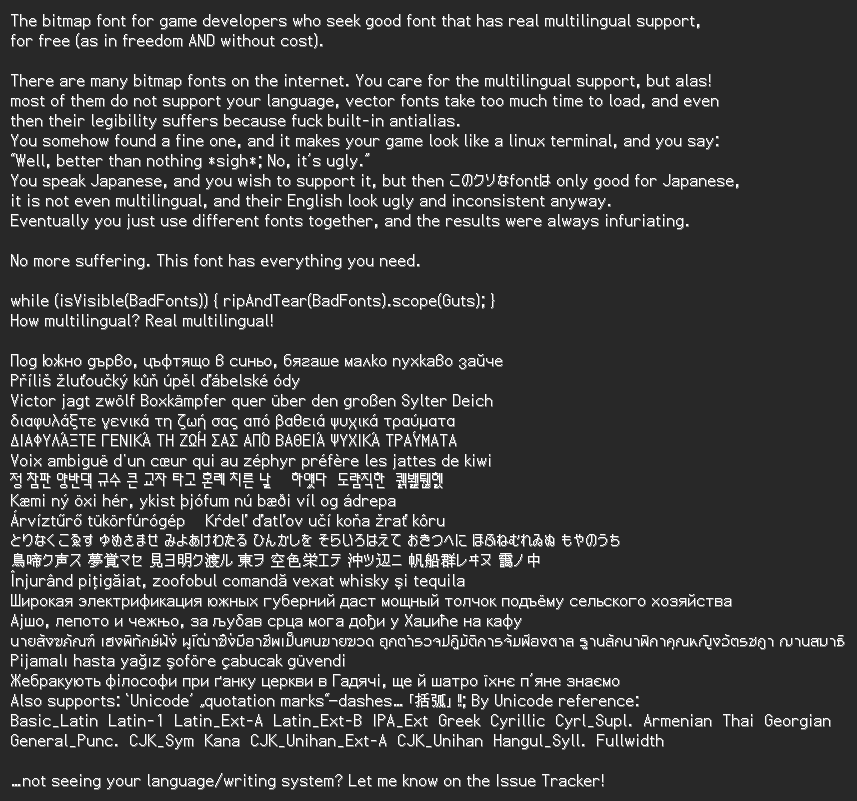
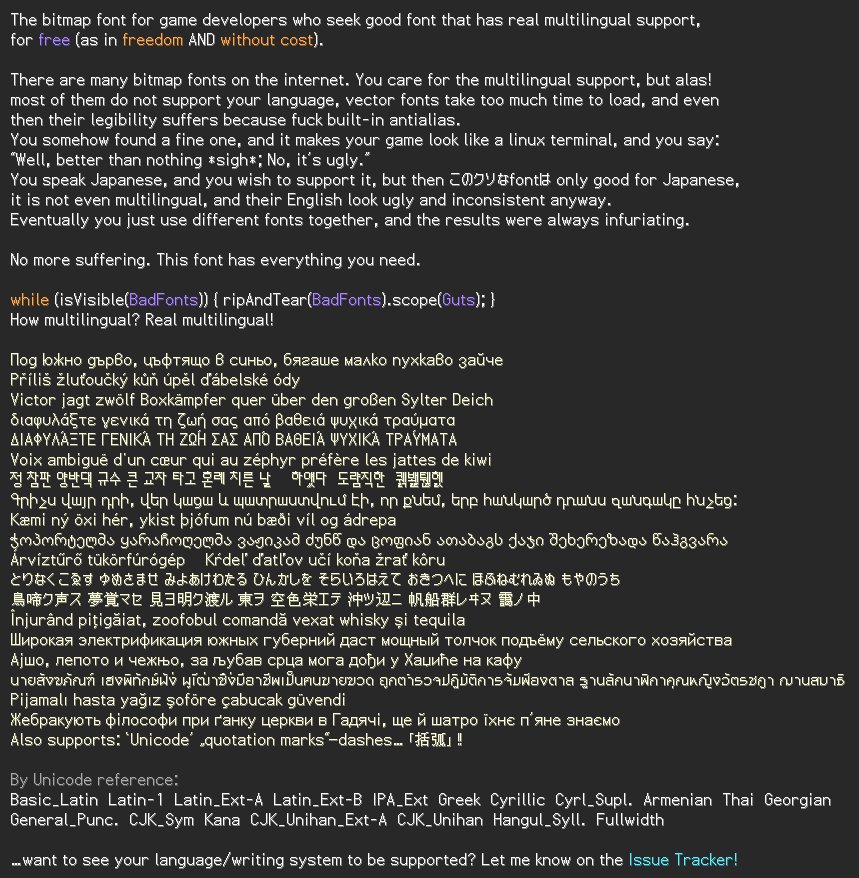
color code utils; colour-coded sample text

Changed region(s): [[0.0, 0.0, 1.0, 0.9988]]

diff --git a/src/net/torvald/terrarumsansbitmap/gdx/GameFontBase.kt b/src/net/torvald/terrarumsansbitmap/gdx/GameFontBase.kt
@@ -748,6 +748,10 @@ class GameFontBase(fontDir: String, val noShadow: Boolean = false, val flipY: Bo
             else throw IllegalArgumentException("Font scale cannot be zero or negative (input: $value)")
         }
 
+    fun toColorCode(rgba4444: Int): String = GameFontBase.toColorCode(rgba4444)
+    fun toColorCode(r: Int, g: Int, b: Int, a: Int = 0x0F): String = toColorCode(r.shl(12) or g.shl(8) or b.shl(4) or a)
+    val noColorCode = toColorCode(0x0000)
+
     companion object {
         internal val JUNG_COUNT = 21
         internal val JONG_COUNT = 28
@@ -785,6 +789,13 @@ class GameFontBase(fontDir: String, val noShadow: Boolean = false, val flipY: Bo
         internal val SHEET_CUSTOM_SYM =     16
 
         internal val SHEET_UNKNOWN = 254
+
+
+        fun toColorCode(rgba4444: Int): String = Character.toChars(0x100000 + rgba4444).toColCode()
+        fun toColorCode(r: Int, g: Int, b: Int, a: Int = 0x0F): String = toColorCode(r.shl(12) or g.shl(8) or b.shl(4) or a)
+        private fun CharArray.toColCode(): String = "${this[0]}${this[1]}"
+
+        val noColorCode = toColorCode(0x0000)
     }
 
 }

diff --git a/src/net/torvald/terrarumsansbitmap/slick2d/GameFontBase.kt b/src/net/torvald/terrarumsansbitmap/slick2d/GameFontBase.kt
@@ -753,5 +753,15 @@ class GameFontBase(fontDir: String, val noShadow: Boolean = false) : Font {
             else throw IllegalArgumentException("Font scale cannot be zero or negative (input: $value)")
         }
 
+    fun toColorCode(rgba4444: Int): String = GameFontBase.toColorCode(rgba4444)
+    fun toColorCode(r: Int, g: Int, b: Int, a: Int = 0x0F): String = toColorCode(r.shl(12) or g.shl(8) or b.shl(4) or a)
+    val noColorCode = toColorCode(0x0000)
 
+    companion object {
+        fun toColorCode(rgba4444: Int): String = Character.toChars(0x100000 + rgba4444).toColCode()
+        fun toColorCode(r: Int, g: Int, b: Int, a: Int = 0x0F): String = toColorCode(r.shl(12) or g.shl(8) or b.shl(4) or a)
+        private fun CharArray.toColCode(): String = "${this[0]}${this[1]}"
+
+        val noColorCode = toColorCode(0x0000)
+    }
 }
